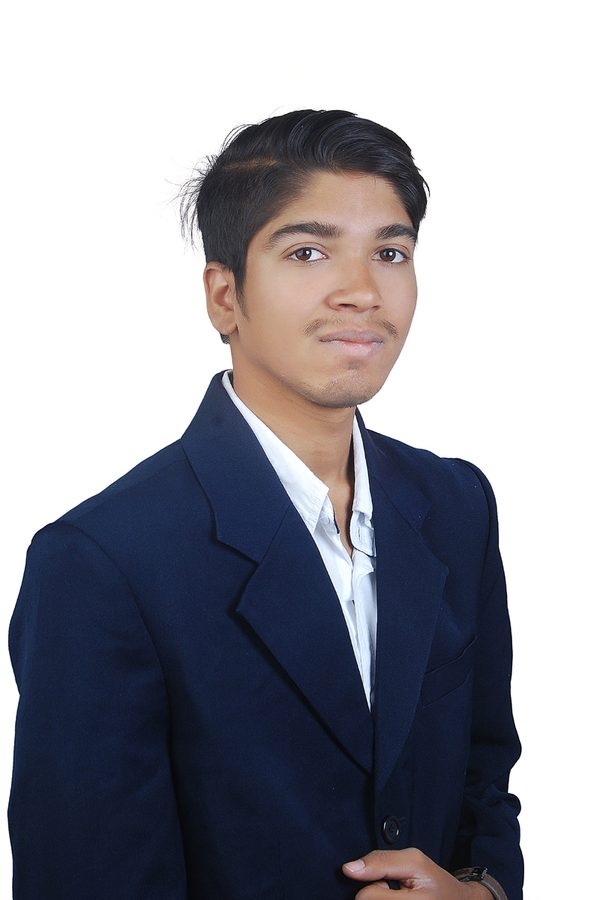
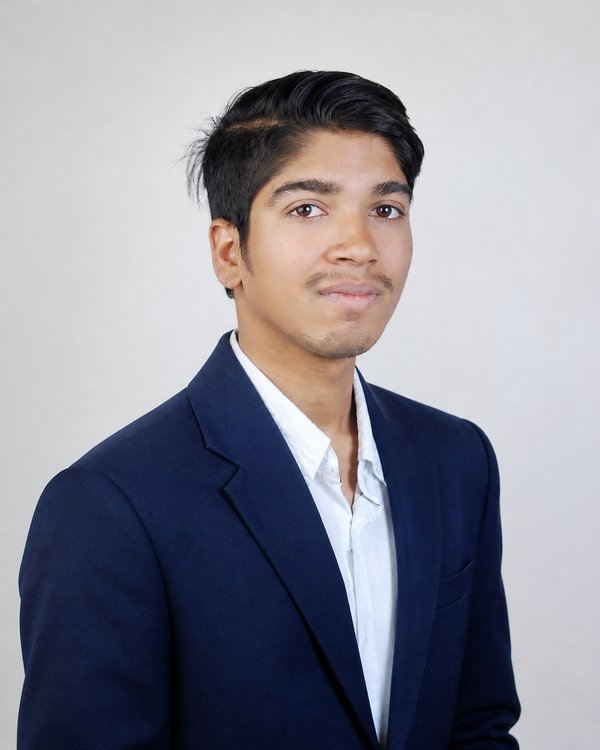
Update profile photo to new professional headshot
Claude-Session: https://claude.ai/code/session_01L6gChTS51SFmAfxKEoxqcC

diff --git a/src/components/Sections.jsx b/src/components/Sections.jsx
@@ -164,7 +164,7 @@ export function Hero() {
           <TiltCard max={10} className="animate-float rounded-[28px]">
             <div ref={photoRef} className="relative">
               <div className="glow-ring" aria-hidden />
-              <img src={profile.photo} alt={`Portrait of ${profile.name}`} width="600" height="900"
+              <img src={profile.photo} alt={`Portrait of ${profile.name}`} width="600" height="750"
                 className="relative aspect-[4/5] w-full rounded-3xl border border-line object-cover object-top" />
             </div>
           </TiltCard>
